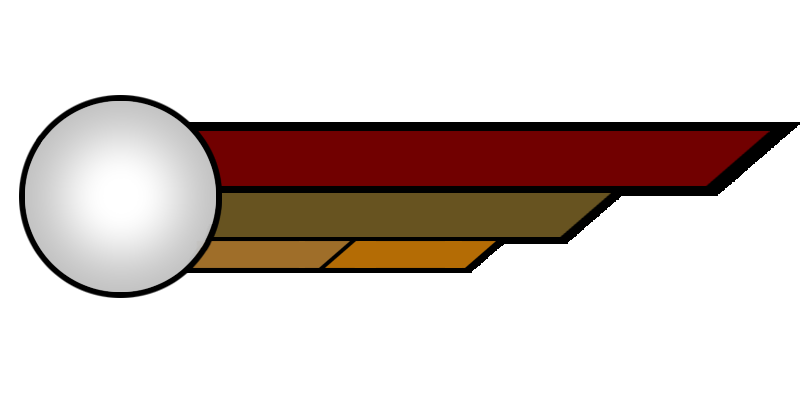
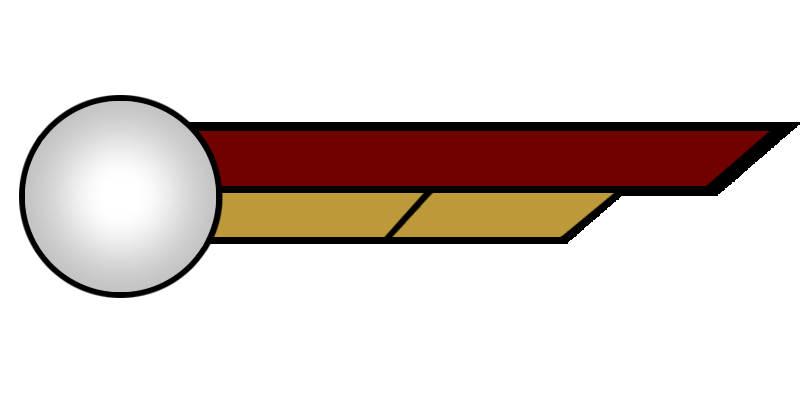
positive health animation

Changed region(s): [[0.2188, 0.48, 0.7812, 0.69]]

diff --git a/core/src/me/spacegame/ui/HealthBar.java b/core/src/me/spacegame/ui/HealthBar.java
@@ -109,7 +109,7 @@ public class HealthBar {
     {
         if(game.currentPowerUp != null && game.currentPowerUp.texture != null)
         {
-            batch.draw(game.currentPowerUp.texture, 87f, 833f);
+            batch.draw(game.currentPowerUp.texture, 147f, 893f);
         }
         else
         {
@@ -158,8 +158,8 @@ public class HealthBar {
 
     public void updateHealth(float dt)
     {
-        dt /= 100;
-        if (dHealth > 0)
+        dt /= 200;
+        //if (dHealth > 0)
         {
             if(dt > 0.05f)
             {
@@ -173,10 +173,17 @@ public class HealthBar {
         }
     }
 
-    public void setHealth(float health)
+    public void setHealth(float healthChange, boolean positive)
     {
-        this.dHealth = (this.health - convertPercentToPixel(health));
+        this.dHealth = Math.abs(this.health - convertPercentToPixel(healthChange));
         healthAnimationDeltaTime = 0;
+        if(!positive) this.dHealth = -this.health;
+
+    }
+
+    public void addHealthByForce(int health)
+    {
+        this.health += health;
     }
 
     public void dispose()

diff --git a/core/src/me/spacegame/screens/GameScreen.java b/core/src/me/spacegame/screens/GameScreen.java
@@ -530,16 +530,15 @@ public class GameScreen implements Screen, InputProcessor {
 
     }
 
-    private void damagePlayer(int damage)
+    public void damagePlayer(int damage)
     {
         //damage = 4;
         player.health -= damage;
-        healthBar.setHealth(player.health);
+        healthBar.setHealth(player.health, true);
         shakeCam();
         if (healthBar.getHealthPX() <= 260) {
             gameOver();
         }
-        System.err.println(player.health);
     }
 
     private void gameOver() {

diff --git a/core/src/me/spacegame/powerups/PowerUpHealth.java b/core/src/me/spacegame/powerups/PowerUpHealth.java
@@ -38,7 +38,10 @@ public class PowerUpHealth extends PowerUp {
         if(!healed)
         {
             healed=true;
-            player.health+=health;
+            //player.health+=health;
+            //gameScreen.healthBar.addHealthByForce(100);
+            player.health -= 20;
+            gameScreen.healthBar.setHealth(player.health, false);
             return true;
         }
         return false;

diff --git a/core/src/me/spacegame/powerups/PowerUpRapidFire.java b/core/src/me/spacegame/powerups/PowerUpRapidFire.java
@@ -34,7 +34,7 @@ public class PowerUpRapidFire extends PowerUp {
         started = false;
         durationStart = System.currentTimeMillis();
         timer = 0;
-        texture = new Texture(Gdx.files.internal("ui/pausebutton.png"));
+        texture = new Texture(Gdx.files.internal("gameobjects/RapidFireIcon.png"));
     }
 
 
